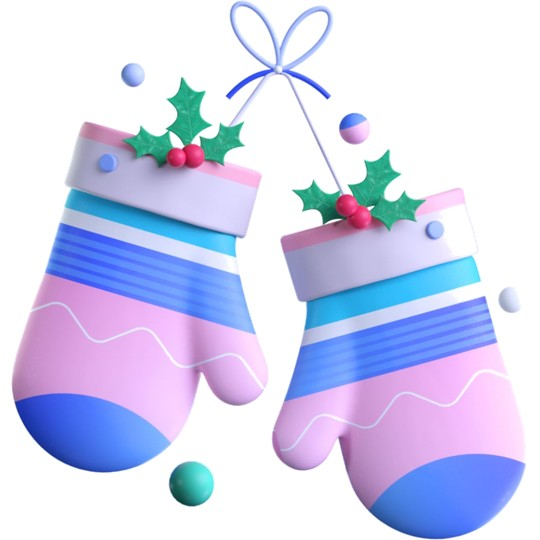
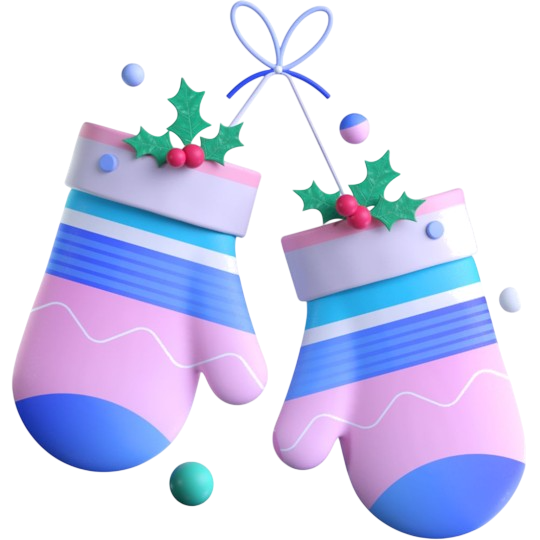
찌부 추가 수정, 팔레트 아이콘 및 대응하는 글자 크기 키움, OOTD 페이지의 옷 이미지 영역에 고정 박스 적용

diff --git a/frontend/src/views/recommendations/OOTD.vue b/frontend/src/views/recommendations/OOTD.vue
@@ -5,29 +5,29 @@
         <!-- 페이지 헤더 -->
         <div class="page-header">
           <h1 class="page-title">
-            <img src="@/assets/images/ootd-icon.png" alt="" class="page-title-icon" />
+            <img src="@/assets/images/ootd-icon.png" alt="" class="page-title-icon-ootd" />
             OOTD 추천
           </h1>
           <p class="page-subtitle">날씨와 행운색 기반 오늘의 코디</p>
         </div>
 
         <!-- 운세 요약 카드 -->
-        <div v-if="fortuneSummary || (luckyColors && luckyColors.length)" class="card-base card-sm text-center mb-5">
+        <div v-if="fortuneSummary || (luckyColors && luckyColors.length)" class="card-base card-sm text-center mb-5 lucky-color-card">
             <!-- 운세 요약 한줄 -->
-            <p v-if="fortuneSummary" class="text-white mb-2" style="font-size: 0.95rem;">
+            <p v-if="fortuneSummary" class="text-white mb-2 fortune-summary-text">
               <i class="fas fa-star-half-alt text-warning me-1"></i>
               {{ fortuneSummary }}
             </p>
             <!-- 오늘의 행운색 - 색상 점 + 텍스트 -->
             <div v-if="luckyColors && luckyColors.length" class="d-flex flex-wrap align-items-center justify-content-center gap-2">
-              <span class="text-white opacity-75 me-1 d-flex align-items-center">
-                <img src="@/assets/images/pallete.png" alt="" class="lucky-color-palette-icon me-1" />
+              <span class="text-white opacity-75 me-1 d-flex align-items-center lucky-color-label">
+                <img src="@/assets/images/pallete.png" alt="" class="lucky-color-palette-icon me-2" />
                 오늘의 행운색:
               </span>
-              <div class="d-flex align-items-center gap-2">
+              <div class="d-flex align-items-center gap-3">
                 <span v-for="(color, index) in luckyColors" :key="index" class="lucky-color-item">
-                  <span class="lucky-color-dot" :style="{ background: getColorBackground(color) }"></span>
-                  <span class="text-white">{{ color }}</span>
+                  <span class="lucky-color-dot-lg" :style="{ background: getColorBackground(color) }"></span>
+                  <span class="text-white lucky-color-name">{{ color }}</span>
                 </span>
               </div>
             </div>
@@ -94,8 +94,8 @@
                   <h5 class="mb-0 text-white">오늘의 상의</h5>
                 </div>
                 <div class="card-body text-center">
-                  <div class="mb-3 d-flex justify-content-center">
-                    <img :src="getTopImage" alt="Top" width="100" class="img-fluid drop-shadow" />
+                  <div class="outfit-image-container mb-3">
+                    <img :src="getTopImage" alt="Top" class="outfit-image" />
                   </div>
                   <h4>{{ outfit.top || '니트' }}</h4>
                   <p class="text-muted">{{ outfit.top_desc || '따뜻하고 포근한 느낌' }}</p>
@@ -113,8 +113,8 @@
                   <h5 class="mb-0 text-white">오늘의 하의</h5>
                 </div>
                 <div class="card-body text-center">
-                  <div class="mb-3 d-flex justify-content-center">
-                    <img :src="getBottomImage" alt="Bottom" width="100" class="img-fluid drop-shadow" />
+                  <div class="outfit-image-container mb-3">
+                    <img :src="getBottomImage" alt="Bottom" class="outfit-image" />
                   </div>
                   <h4>{{ outfit.bottom || '청바지' }}</h4>
                   <p class="text-muted">{{ outfit.bottom_desc || '편안한 일상 바지' }}</p>
@@ -135,8 +135,8 @@
               </h5>
             </div>
             <div class="card-body text-center">
-              <div class="mb-3 d-flex justify-content-center">
-                <img :src="getOuterImage" alt="Outer" width="100" class="img-fluid drop-shadow" />
+              <div class="outfit-image-container mb-3">
+                <img :src="getOuterImage" alt="Outer" class="outfit-image" />
               </div>
               <h4>{{ outfit.outer || '코트' }}</h4>
               <p class="text-muted">{{ outfit.outer_desc || '오늘같은 날씨엔 꼭 필요합니다.' }}</p>
@@ -760,19 +760,64 @@ onMounted(() => {
   filter: drop-shadow(0 0 10px rgba(245, 158, 11, 0.5));
 }
 
-/* 페이지 타이틀 아이콘 */
-.page-title-icon {
-  width: 36px;
-  height: 36px;
+/* OOTD 페이지 타이틀 아이콘 */
+.page-title-icon-ootd {
+  width: 42px;
+  height: 42px;
   margin-right: 0.5rem;
   vertical-align: middle;
+  object-fit: contain;
 }
 
 /* 팔레트 아이콘 */
 .lucky-color-palette-icon {
-  width: 18px;
-  height: 18px;
+  width: 24px;
+  height: 24px;
   object-fit: contain;
+}
+
+/* 행운색 카드 내부 스타일 */
+.lucky-color-card {
+  padding: 1.25rem 1.5rem;
+}
+
+.fortune-summary-text {
+  font-size: 1.05rem;
+}
+
+.lucky-color-label {
+  font-size: 1.05rem;
+}
+
+.lucky-color-name {
+  font-size: 1.05rem;
+  font-weight: 500;
+}
+
+.lucky-color-dot-lg {
+  width: 16px;
+  height: 16px;
+  border-radius: 50%;
+  border: 1px solid rgba(255, 255, 255, 0.3);
+  flex-shrink: 0;
+}
+
+/* 옷 이미지 고정 크기 컨테이너 */
+.outfit-image-container {
+  width: 160px;
+  height: 160px;
+  margin: 0 auto;
+  display: flex;
+  align-items: center;
+  justify-content: center;
+  background: transparent;
+}
+
+.outfit-image {
+  max-width: 100%;
+  max-height: 100%;
+  object-fit: contain;
+  filter: drop-shadow(0 4px 8px rgba(0, 0, 0, 0.3));
 }
 
 /* Loading Screen Styles */

diff --git a/frontend/src/views/recommendations/Menu.vue b/frontend/src/views/recommendations/Menu.vue
@@ -30,14 +30,14 @@
               </p>
               <!-- 오늘의 행운색 - 색상 점 + 텍스트 -->
               <div v-if="fortuneData.lucky_colors && fortuneData.lucky_colors.length" class="d-flex flex-wrap align-items-center justify-content-center gap-2">
-                <span class="text-white opacity-75 me-1 d-flex align-items-center">
-                  <img src="@/assets/images/pallete.png" alt="" class="lucky-color-palette-icon me-1" />
+                <span class="text-white opacity-75 me-1 d-flex align-items-center lucky-color-label">
+                  <img src="@/assets/images/pallete.png" alt="" class="lucky-color-palette-icon me-2" />
                   오늘의 행운색:
                 </span>
-                <div class="d-flex align-items-center gap-2">
+                <div class="d-flex align-items-center gap-3">
                   <span v-for="(color, index) in fortuneData.lucky_colors" :key="index" class="lucky-color-item">
-                    <span class="lucky-color-dot" :style="{ background: getColorBackground(color) }"></span>
-                    <span class="text-white">{{ color }}</span>
+                    <span class="lucky-color-dot-lg" :style="{ background: getColorBackground(color) }"></span>
+                    <span class="text-white lucky-color-name">{{ color }}</span>
                   </span>
                 </div>
               </div>
@@ -322,9 +322,28 @@ onMounted(() => {
 
 /* 팔레트 아이콘 */
 .lucky-color-palette-icon {
-  width: 18px;
-  height: 18px;
+  width: 24px;
+  height: 24px;
   object-fit: contain;
+}
+
+/* 행운색 라벨 */
+.lucky-color-label {
+  font-size: 1.05rem;
+}
+
+/* 행운색 큰 점 */
+.lucky-color-dot-lg {
+  width: 16px;
+  height: 16px;
+  border-radius: 50%;
+  border: 1px solid rgba(255, 255, 255, 0.3);
+  flex-shrink: 0;
+}
+
+.lucky-color-name {
+  font-size: 1.05rem;
+  font-weight: 500;
 }
 
 @media (max-width: 768px) {

diff --git a/frontend/src/views/items/List.vue b/frontend/src/views/items/List.vue
@@ -51,11 +51,11 @@
               </button>
             </div>
             <div class="d-flex flex-wrap align-items-center justify-content-center gap-2">
-              <span class="text-white-50 me-2 fortune-label d-flex align-items-center"><img src="@/assets/images/pallete.png" alt="" class="lucky-color-palette-icon me-1" />오늘의 행운색:</span>
-              <div class="d-flex align-items-center gap-2">
+              <span class="text-white-50 me-2 fortune-label d-flex align-items-center"><img src="@/assets/images/pallete.png" alt="" class="lucky-color-palette-icon me-2" />오늘의 행운색:</span>
+              <div class="d-flex align-items-center gap-3">
                 <span v-for="(color, index) in luckyColors" :key="index" class="lucky-color-item">
-                  <span class="lucky-color-dot" :style="{ background: getColorBackground(color) }"></span>
-                  <span class="text-white">{{ color }}</span>
+                  <span class="lucky-color-dot-lg" :style="{ background: getColorBackground(color) }"></span>
+                  <span class="text-white lucky-color-name">{{ color }}</span>
                 </span>
               </div>
             </div>
@@ -536,17 +536,32 @@ onMounted(() => {
 
 /* 팔레트 아이콘 */
 .lucky-color-palette-icon {
-  width: 16px;
-  height: 16px;
+  width: 22px;
+  height: 22px;
   object-fit: contain;
 }
 
 /* 페이지 타이틀 아이콘 */
 .page-title-icon {
-  width: 36px;
-  height: 36px;
+  width: 40px;
+  height: 40px;
   margin-right: 0.5rem;
   vertical-align: middle;
+  object-fit: contain;
+}
+
+/* 행운색 스타일 */
+.lucky-color-dot-lg {
+  width: 14px;
+  height: 14px;
+  border-radius: 50%;
+  border: 1px solid rgba(255, 255, 255, 0.3);
+  flex-shrink: 0;
+}
+
+.lucky-color-name {
+  font-size: 1rem;
+  font-weight: 500;
 }
 
 /* 운세 미생성 시 유도 배너 */

diff --git a/frontend/src/views/fortune/Fortune.vue b/frontend/src/views/fortune/Fortune.vue
@@ -866,10 +866,11 @@ onMounted(async () => {
 
 /* 페이지 타이틀 아이콘 */
 .page-title-icon {
-  width: 36px;
-  height: 36px;
+  width: 42px;
+  height: 42px;
   margin-right: 0.5rem;
   vertical-align: middle;
+  object-fit: contain;
 }
 
 /* 추천 아이콘 스타일 */
